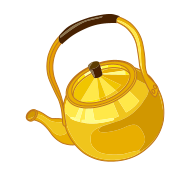
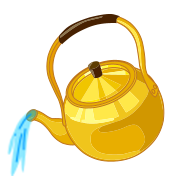
fix(index.js): 주전자를 냄비 안에 넣는 버그 수정

Changed region(s): [[0.0272, 0.5759, 0.2174, 0.9424]]

diff --git a/game/index.js b/game/index.js
@@ -79,6 +79,10 @@ const SFX_POUR_WATER = new AudioPlayer("/assets/sounds/sfx/pour_water.mp3");
 const SFX_SOUP = new AudioPlayer("/assets/sounds/sfx/soup.mp3");
 const SFX_STEAM = new AudioPlayer("/assets/sounds/sfx/steam.mp3");
 const SFX_NOODLES = new AudioPlayer("/assets/sounds/sfx/noodles.mp3");
+const BGM = new AudioPlayer("/assets/sounds/bgm/game.mp3", true, 10.65);
+const BGM_SUCCESS = new AudioPlayer("/assets/sounds/bgm/good_end.mp3");
+const BGM_FAIL = new AudioPlayer("/assets/sounds/bgm/bad_end.mp3");
+const BGM_FAIL_BUBBLES = new AudioPlayer("/assets/sounds/sfx/bad_end_bubbles.mp3");
 
 // ---------- 이미지 / 위치 데이터 ----------
 const backgrounds = {
@@ -123,10 +127,10 @@ const clickZones = [
 
 // 물 붓기 애니메이션 위치 (냄비 0~3)
 const pourPositions = [
-    { bottom: "205px", left: "20px" },
-    { bottom: "130px", left: "-20px" },
-    { bottom: "130px", left: "120px" },
-    { bottom: "205px", left: "155px" },
+    { bottom: "235px", left: "80px" },
+    { bottom: "160px", left: "30px" },
+    { bottom: "160px", left: "170px" },
+    { bottom: "215px", left: "225px" },
 ];
 
 // #endregion
@@ -280,12 +284,21 @@ function endGame() {
 
     gameContainer.classList.add("game-ended");
     hudTimer.style.display = "none";
+
+    BGM.stop();
+
     if (money > WIN_SCORE) {
         gameContainer.classList.add("game-success");
         setBackground("success");
+        BGM_SUCCESS.play();
     } else {
         gameContainer.classList.add("game-failed");
         setBackground("failed");
+        BGM_FAIL.play();
+        // 거품 소리는 1.93초 뒤에 재생
+        setTimeout(() => {
+            BGM_FAIL_BUBBLES.play();
+        }, 1930);
     }
 
     showScore();
@@ -456,7 +469,7 @@ canvas.addEventListener("click", onGameClick);
 canvas.addEventListener("mousemove", onGameMouseMove);
 
 document.addEventListener("DOMContentLoaded", async () => {
-    // 효과음 로딩
+    // 효과음 / 배경음 로딩
     await SFX_DISH_WASH.load();
     await SFX_BOILING.load();
     await SFX_CUSTOMER_TAKE.load();
@@ -467,11 +480,13 @@ document.addEventListener("DOMContentLoaded", async () => {
     await SFX_SOUP.load();
     await SFX_STEAM.load();
     await SFX_NOODLES.load();
+    await BGM.load();
+    await BGM_SUCCESS.load();
+    await BGM_FAIL.load();
+    await BGM_FAIL_BUBBLES.load();
 
     // BGM 재생
-    const bgm = new AudioPlayer("/assets/sounds/bgm/game.mp3", true, 10.65);
-    await bgm.load();
-    await bgm.play();
+    await BGM.play();
 });
 
 // #endregion
